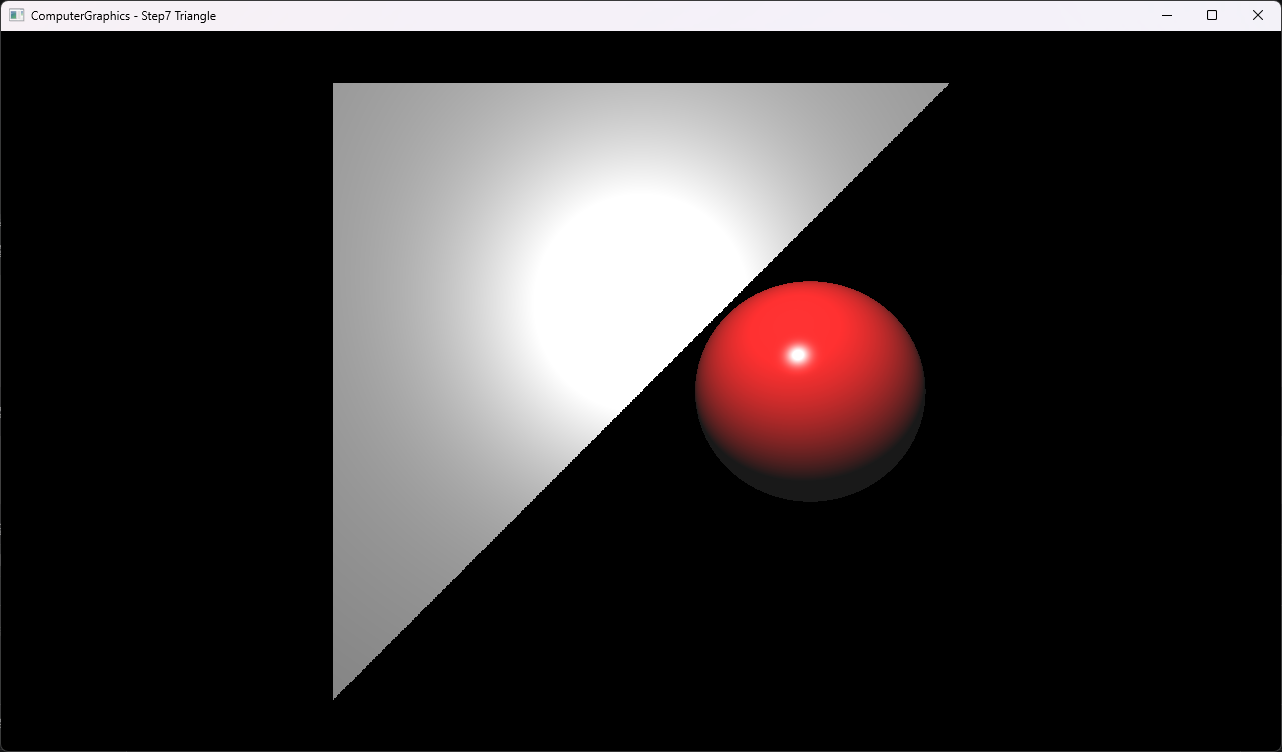
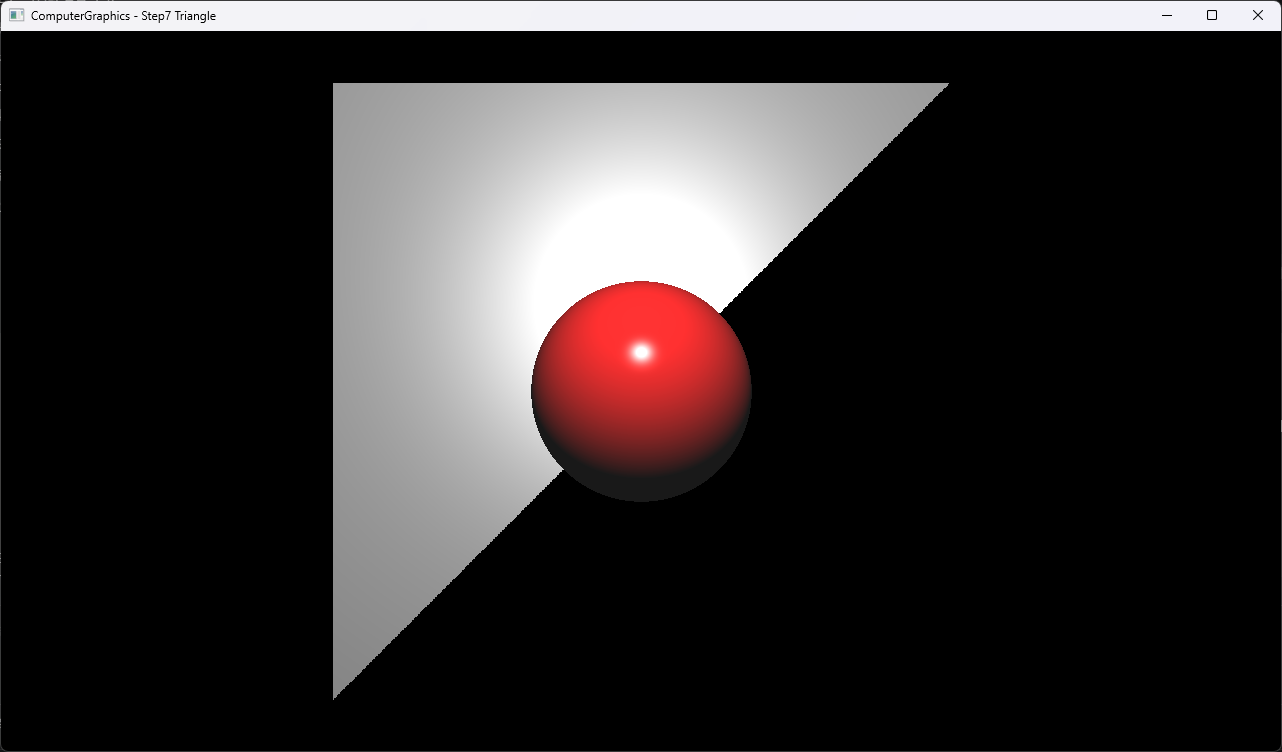
fix: Chapter03 Step7 장면 구성과 설명 보완

Changed region(s): [[0.4056, 0.367, 0.7488, 0.6729], [0.9984, 0.5505, 1.0, 0.5811]]

diff --git a/Part1_Chapter03/03_Raytracing_Step7_Triangle/Raytracer.h b/Part1_Chapter03/03_Raytracing_Step7_Triangle/Raytracer.h
@@ -23,7 +23,7 @@ namespace hlab
         Raytracer(const int &width, const int &height)
             : width(width), height(height)
         {
-            auto sphere = std::make_shared<Sphere>(vec3(0.6f, 0.0f, 0.5f), 0.4f);
+            auto sphere = std::make_shared<Sphere>(vec3(0.0f, 0.0f, 0.5f), 0.4f);
             sphere->amb = vec3(0.1f);
             sphere->dif = vec3(1.0f, 0.1f, 0.1f);
             sphere->spec = vec3(1.0f);

diff --git a/Docs/03_Demos/Part1_Chapter03/07_Triangle.md b/Docs/03_Demos/Part1_Chapter03/07_Triangle.md
@@ -16,7 +16,7 @@ Step7은 Step6의 perspective ray와 closest-hit 흐름에 triangle primitive를
 
 ![Step7 Triangle result](../../_assets/captures/part1_chapter03_07_triangle.png)
 
-Gray triangle의 직선 경계와 red sphere의 곡면이 같은 perspective scene에 나타난다. Sphere가 triangle보다 camera에 가까운 겹침 영역에서는 closest positive hit가 sphere를 선택한다.
+Gray triangle의 직선 경계와 red sphere의 곡면이 같은 perspective scene에 나타난다. 두 object가 화면에서 겹치는 영역에서는 ray 진행 방향에서 가장 가까운 교차점을 선택하므로 camera에 가까운 sphere가 triangle을 가린다.
 
 ## 입력과 출력
 
